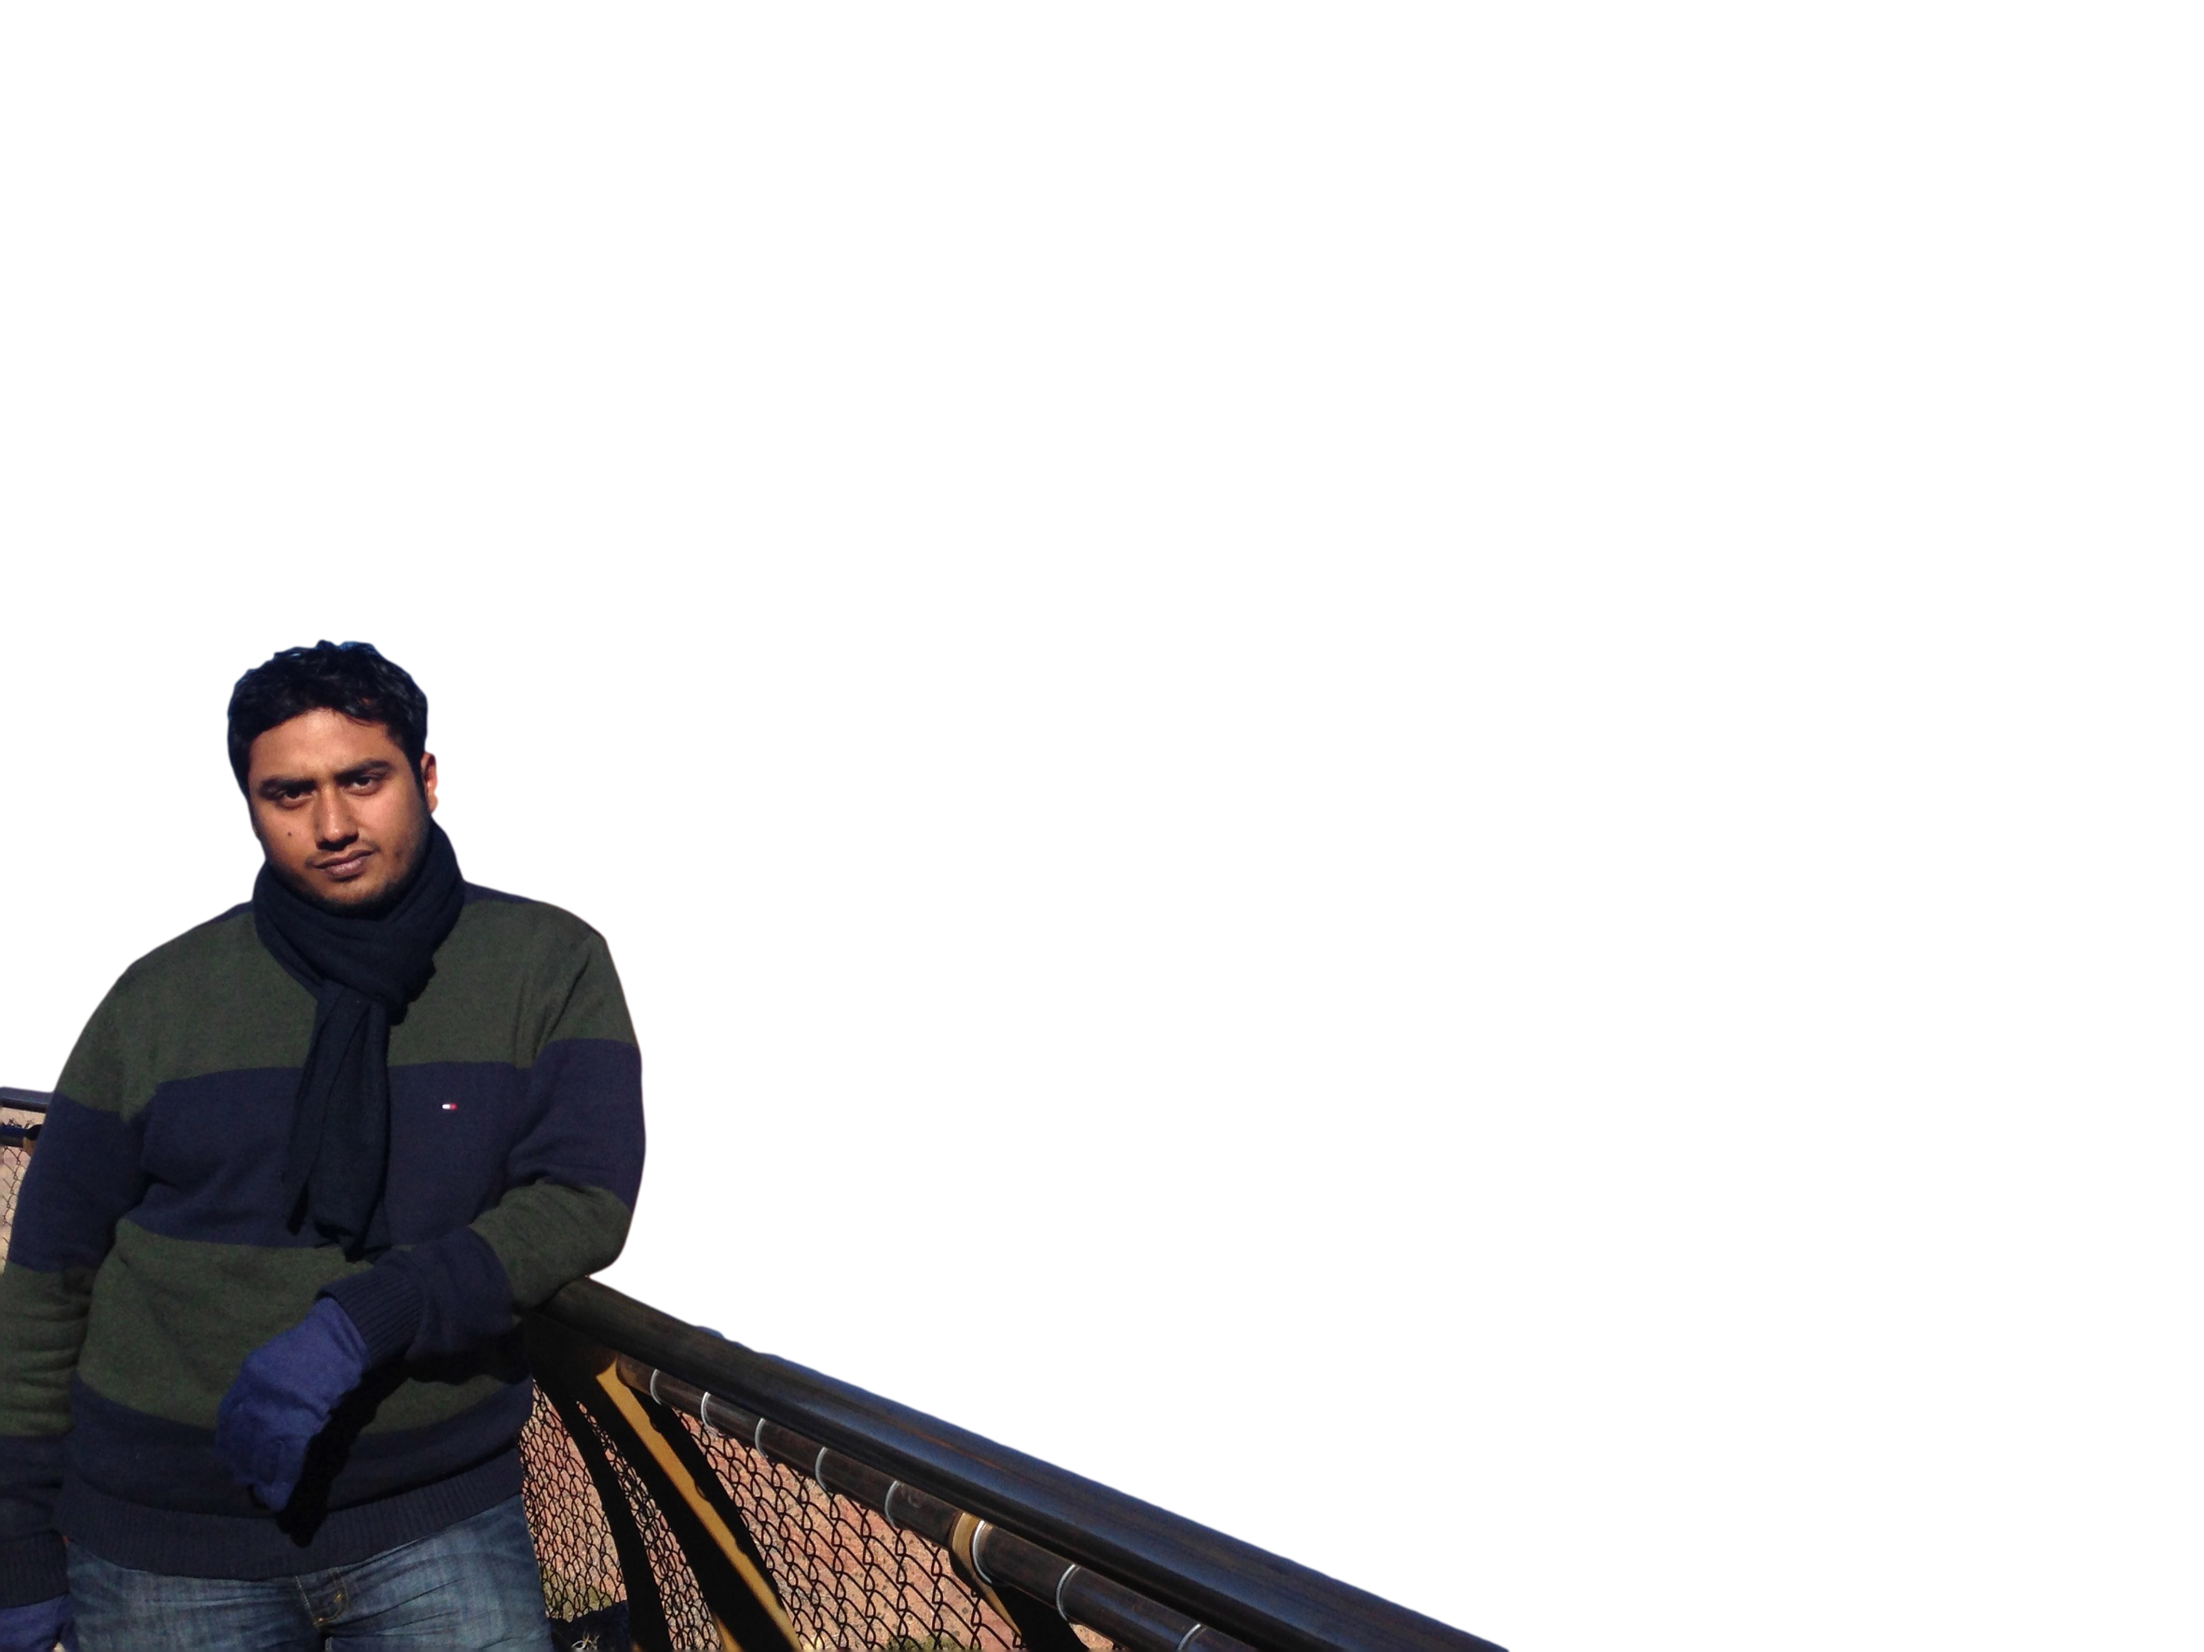
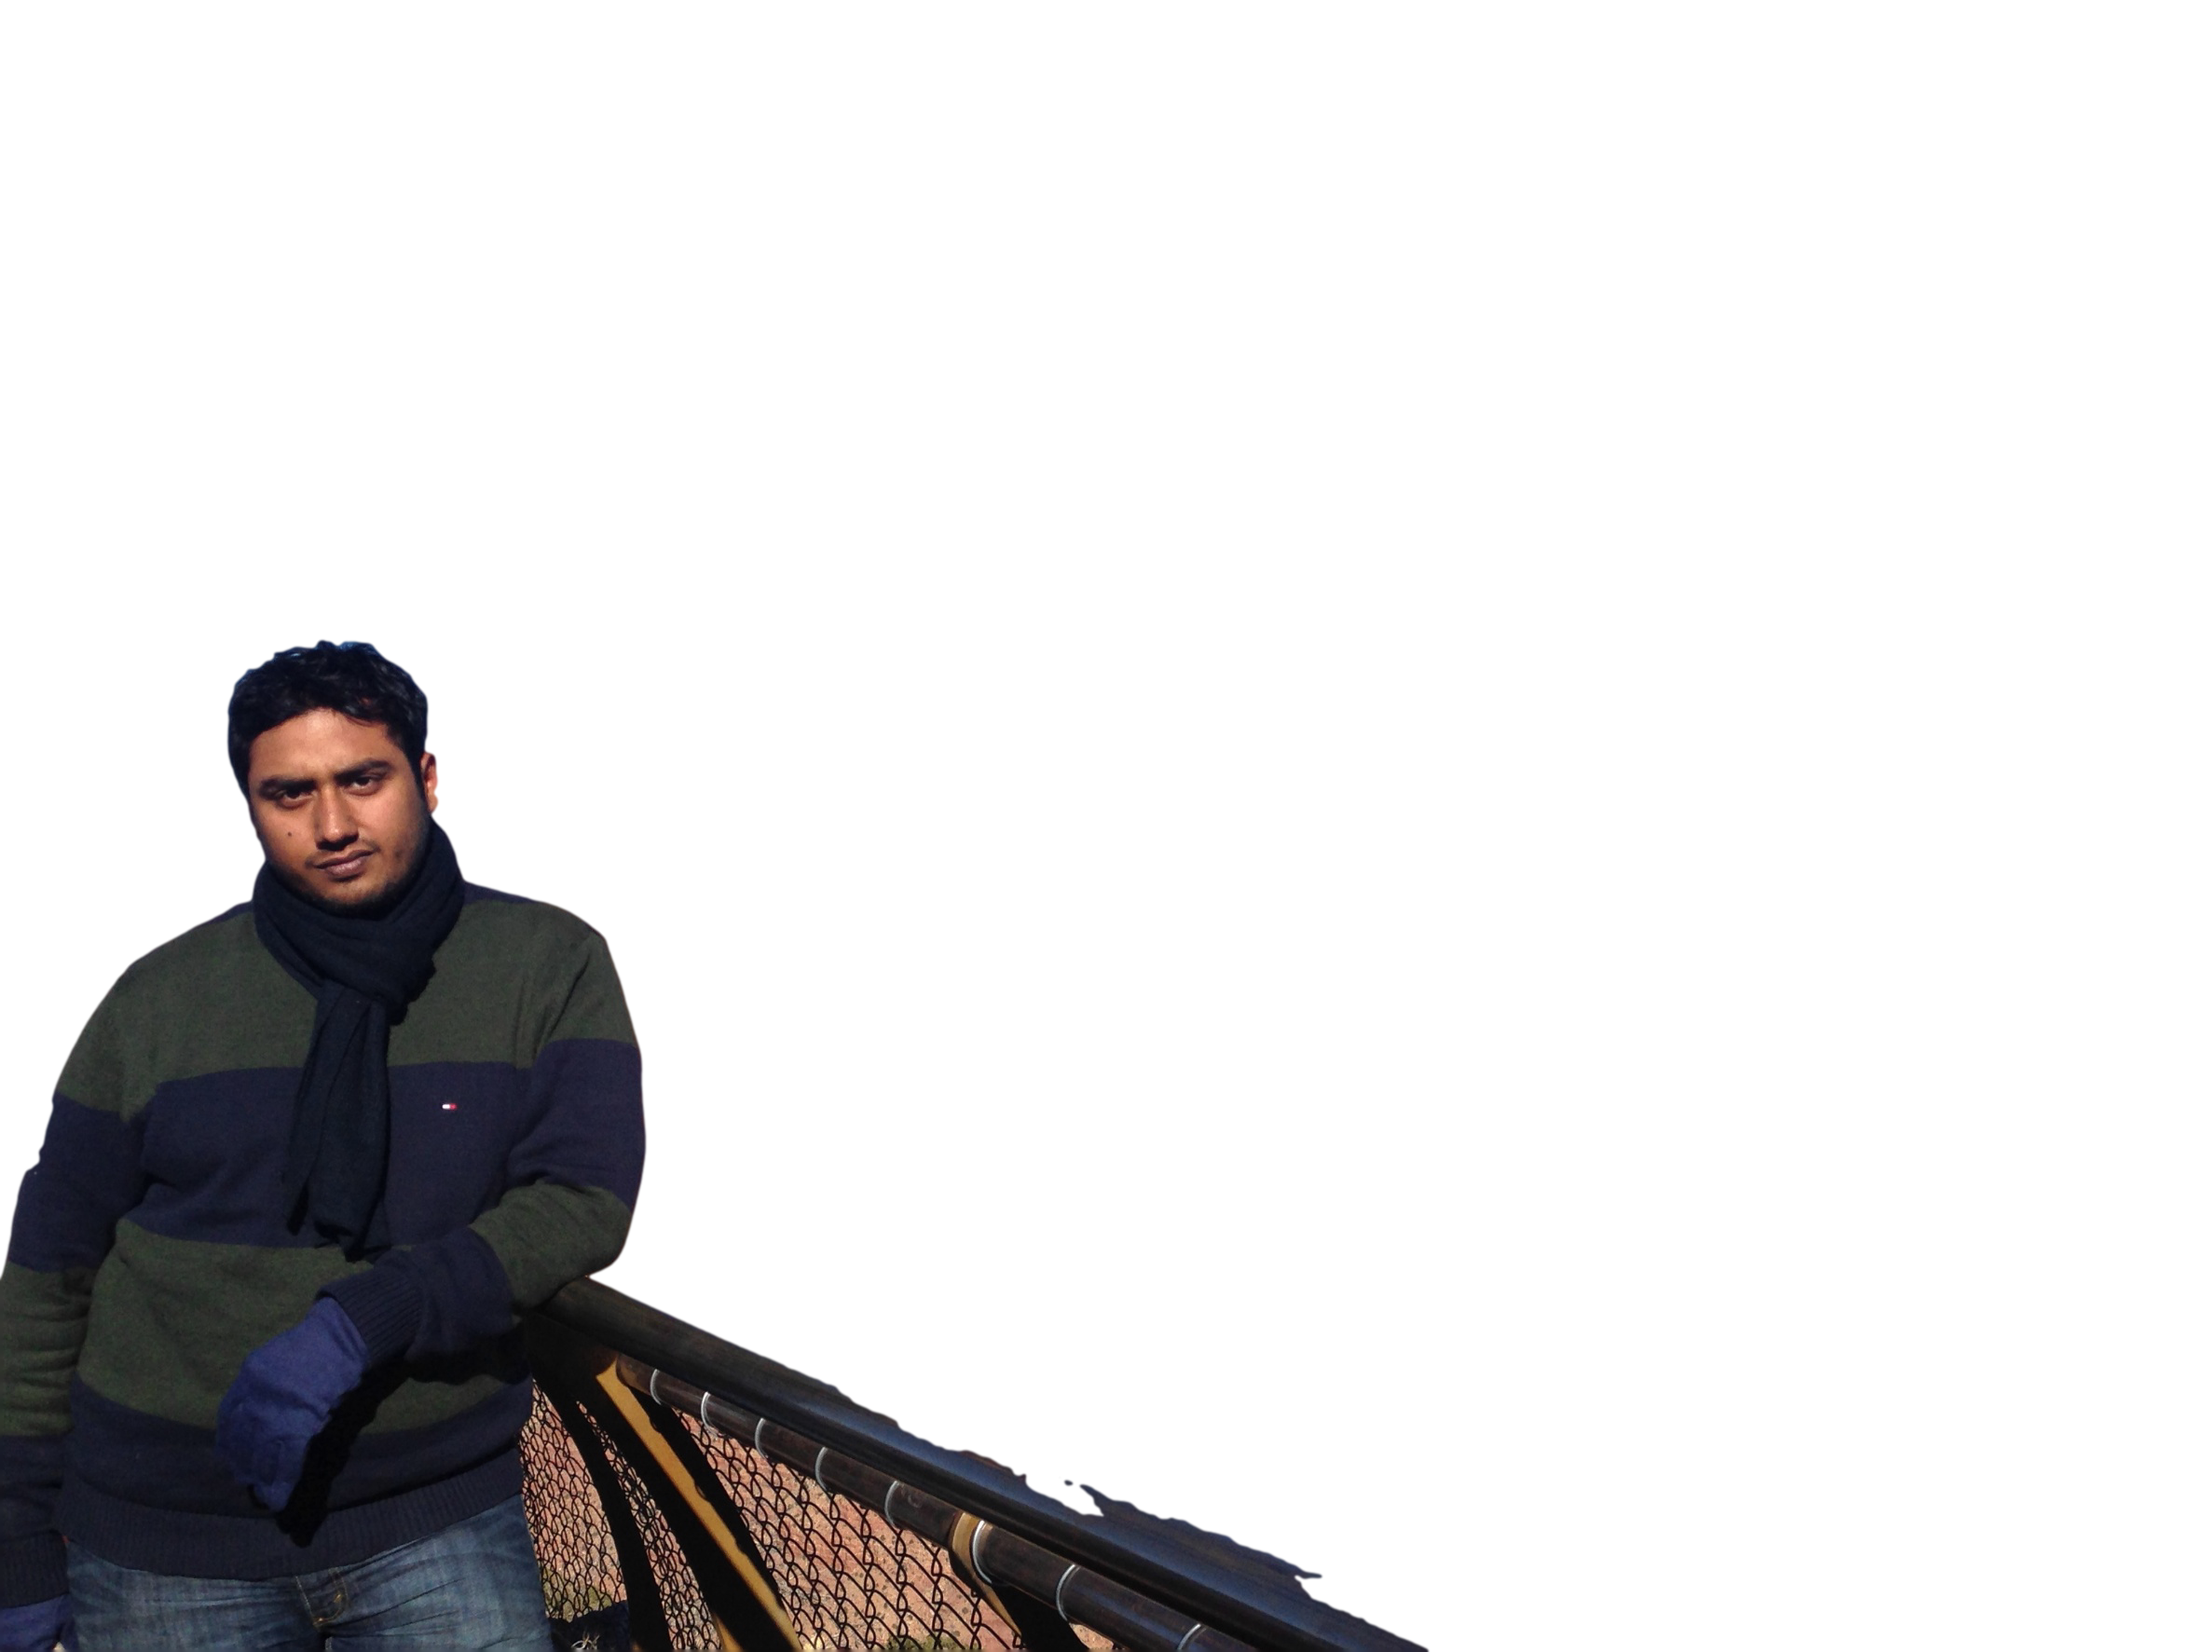
trying again

diff --git a/index.html b/index.html
@@ -5,11 +5,11 @@
 <link rel="stylesheet" href="css/mystyle.css">
 </HEAD>
 <BODY> 
-<div id="loader-top" style="height:4px;   width:0px; position:fixed; top:0px; background: rgb(2, 150, 2); z-index: 1000;"></div>  
+<div id="loader-top" style="height:400px;   width:0px; position:fixed; top:0px; background: rgb(2, 150, 2); z-index: 1000;"></div>  
 <div class="parallaxContainer" >
 <ul id="scene"  >  
-  <li class="layer" data-depth="0.80"><img style="margin-left:-10%; width:130%;"  src="images/bottom_level_2.png"></li>
-  <li class="layer" data-depth="1.00"><img style="margin-left:-5%; width:100%;height:100%"  src="images/myself_left_filtered.png"></li>
+  <li class="layer" data-depth="0.10"><img src="images/bottom_level_2.png"></li>
+  <li class="layer" data-depth="0.30"><img style="width:100%" src="images/myself_left_filtered.png"></li>
 </ul>  
 </div>
 <div style="clear: both;"></div>

diff --git a/css/mystyle.css b/css/mystyle.css
@@ -6,8 +6,7 @@
 .parallaxContainer{
 position: relative;
 width: 100%;
-overflow: hidden;
-top: -350px;
+overflow: hidden; 
 height: 800px;
 }
 body{ 
